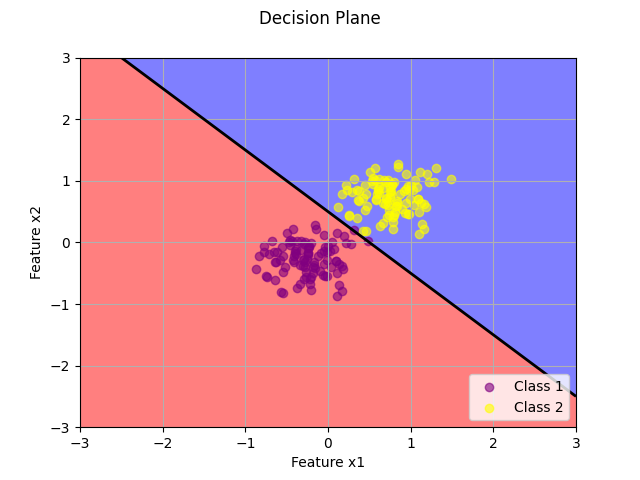
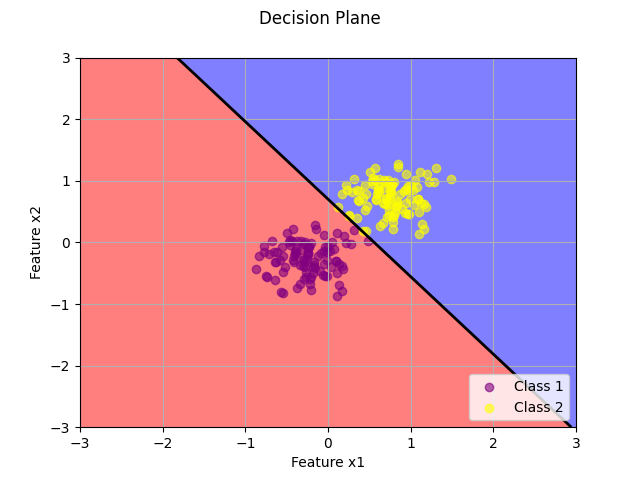
Update

Changed region(s): [[0.1875, 0.125, 0.625, 0.5625], [0.625, 0.5625, 0.9062, 0.9062]]

diff --git a/Classwork3/Assignment.py b/Classwork3/Assignment.py
@@ -1,0 +1,294 @@
+from sklearn.datasets import make_blobs
+import numpy as np
+import matplotlib.pyplot as plt
+from sklearn.metrics import confusion_matrix, roc_curve, auc
+from sklearn.model_selection import train_test_split
+from keras.api.models import Sequential
+from keras.api.layers import Dense
+from keras.api.optimizers import Adam
+import pandas as pd
+'''
+# Create dataset A (class 0) and B (class 1)
+X1, y1 = make_blobs(n_samples=100,
+                    n_features=2,
+                    centers=1,
+                    center_box=(2.0, 2.0),
+                    cluster_std=0.75,
+                    random_state=69)
+X2, y2 = make_blobs(n_samples=100,
+                    n_features=2,
+                    centers=1,
+                    center_box=(3.0, 3.0),
+                    cluster_std=0.75,
+                    random_state=69)
+
+# Label class A as 0 and class B as 1
+y1[:] = 0
+y2[:] = 1
+
+# Combine datasets
+X = np.vstack((X1, X2))
+y = np.hstack((y1, y2))
+
+# Splitting the data into training and testing sets
+X_train, X_test, y_train, y_test = train_test_split(X, y, test_size=0.5, random_state=42)
+
+# Creating a neural network model
+model = Sequential()
+model.add(Dense(16, input_dim=2, activation='relu'))
+model.add(Dense(1, activation='sigmoid'))
+model.compile(loss='binary_crossentropy', optimizer=Adam(0.0001), metrics=['accuracy'])
+
+# Training the model
+model.fit(X_train, y_train, epochs=300, batch_size=10, verbose=0)
+
+# Making predictions
+y_pred_prob = model.predict(X_test)
+y_pred = np.round(y_pred_prob).astype(int).ravel()
+
+# Plotting the decision boundary
+x_min, x_max = X[:, 0].min() - 1, X[:, 0].max() + 1
+y_min, y_max = X[:, 1].min() - 1, X[:, 1].max() + 1
+xx, yy = np.meshgrid(np.arange(x_min, x_max, 0.1), np.arange(y_min, y_max, 0.1))
+Z = model.predict(np.c_[xx.ravel(), yy.ravel()])
+Z = np.round(Z).astype(int)
+Z = Z.reshape(xx.shape)
+
+plt.contourf(xx, yy, Z, alpha=0.4, cmap='coolwarm')
+plt.scatter(X[:, 0], X[:, 1], c=y, s=20, edgecolors='k', cmap='coolwarm')
+plt.xlabel('Feature 1')
+plt.ylabel('Feature 2')
+plt.title('Decision Boundary')
+plt.show()
+'''
+'''
+import numpy as np
+import matplotlib.pyplot as plt
+from sklearn.datasets import make_blobs
+from sklearn.model_selection import train_test_split
+import random
+
+# Generate dataset A (Class 0) and B (Class 1)
+X1, y1 = make_blobs(n_samples=100, n_features=2, centers=1,
+                    center_box=(-2.0, -2.0), cluster_std=0.75, random_state=42)
+X2, y2 = make_blobs(n_samples=100, n_features=2, centers=1,
+                    center_box=(2.0, 2.0), cluster_std=0.75, random_state=42)
+
+# Label class A as 0 and class B as 1
+y1[:] = 0
+y2[:] = 1
+
+# Combine datasets
+X = np.vstack((X1, X2))
+y = np.hstack((y1, y2))
+
+# --- Perceptron Section ---
+# Define the sigmoid function
+def sigmoid(x):
+    return 1 / (1 + np.exp(-x))
+
+# Perceptron class
+class Perceptron:
+    def __init__(self, input_size=2, lr=0.01, epochs=20):
+        self.lr = lr
+        self.epochs = epochs
+        self.w = np.random.uniform(-1, 1, size=(input_size))  # Random weights
+        self.bias = random.uniform(-1, 1)  # Random bias
+
+    def predict(self, X):
+        z = np.dot(X, self.w) + self.bias
+        return 1 if z > 0 else 0  # Step function
+
+    def fit(self, X, y):
+        for _ in range(self.epochs):
+            for xi, yi in zip(X, y):
+                y_pred = self.predict(xi)
+                error = yi - y_pred
+                self.w += self.lr * error * xi
+                self.bias += self.lr * error
+
+# Train the perceptron
+perceptron = Perceptron(input_size=2, lr=0.01, epochs=50)
+perceptron.fit(X, y)
+
+# Decision boundary function
+def decision_function(x1):
+    return -(perceptron.w[0] * x1 + perceptron.bias) / perceptron.w[1]
+
+# Generate grid for plot
+x_min, x_max = X[:, 0].min() - 1, X[:, 0].max() + 1
+y_min, y_max = X[:, 1].min() - 1, X[:, 1].max() + 1
+xx = np.linspace(x_min, x_max, 100)
+yy = decision_function(xx)
+
+# --- Plot the Perceptron Decision Boundary ---
+plt.figure(figsize=(8, 6))
+
+# Plot dataset
+plt.scatter(X1[:, 0], X1[:, 1], color='red', label="Class 1", edgecolor='k')
+plt.scatter(X2[:, 0], X2[:, 1], color='blue', label="Class 2", edgecolor='k')
+
+# Plot decision boundary line
+plt.plot(xx, yy, 'k-', linewidth=2)
+
+# Fill regions
+plt.fill_between(xx, yy, y_min, color='lightcoral', alpha=0.3)
+plt.fill_between(xx, yy, y_max, color='lightblue', alpha=0.3)
+
+# Plot details
+plt.title("Decision Plane")
+plt.xlabel("Feature x1")
+plt.ylabel("Feature x2")
+plt.legend(loc='lower right')
+plt.xlim(x_min, x_max)
+plt.ylim(y_min, y_max)
+plt.grid(True)
+plt.show()
+
+'''
+
+# import numpy as np
+# import matplotlib.pyplot as plt
+# from sklearn.datasets import make_blobs
+# from sklearn.model_selection import train_test_split
+
+# # --- Data Generation ---
+# # Generate dataset A (Class 0) and B (Class 1)
+# X1, y1 = make_blobs(n_samples=100, n_features=2, centers=1,
+#                     center_box=(2.0, 2.0), cluster_std=0.75, random_state=42)
+# X2, y2 = make_blobs(n_samples=100, n_features=2, centers=1,
+#                     center_box=(3.0, 3.0), cluster_std=0.75, random_state=42)
+
+# # Label class A as 0 and class B as 1
+# y1[:] = 0
+# y2[:] = 1
+
+# # Combine datasets
+# X = np.vstack((X1, X2))
+# y = np.hstack((y1, y2))
+
+# # Split the data into training and testing sets
+# X_train, X_test, y_train, y_test = train_test_split(X, y, test_size=0.5, random_state=42)
+
+# # --- Neural Network Model ---
+# # Define a simple feedforward neural network
+# model = Sequential()
+# model.add(Dense(16, input_dim=2, activation='relu'))  # Hidden layer with ReLU activation
+# model.add(Dense(1, activation='sigmoid'))  # Output layer with sigmoid activation
+
+# # Compile the model
+# model.compile(loss='binary_crossentropy', optimizer=Adam(learning_rate=0.01), metrics=['accuracy'])
+
+# # Train the model
+# model.fit(X_train, y_train, epochs=300, batch_size=10, verbose=0)
+
+# # Evaluate the model on test data
+# loss, accuracy = model.evaluate(X_test, y_test, verbose=0)
+# print(f"Test Accuracy: {accuracy * 100:.2f}%")
+
+# # --- Decision Boundary ---
+# # Generate grid points for decision boundary
+# x_min, x_max = X[:, 0].min() - 1, X[:, 0].max() + 1
+# y_min, y_max = X[:, 1].min() - 1, X[:, 1].max() + 1
+# xx, yy = np.meshgrid(np.arange(x_min, x_max, 0.1),
+#                      np.arange(y_min, y_max, 0.1))
+
+# # Predict on grid points
+# Z = model.predict(np.c_[xx.ravel(), yy.ravel()])
+# Z = Z.reshape(xx.shape)
+
+# # --- Plot the Decision Boundary ---
+# plt.figure(figsize=(8, 6))
+
+# # Plot the filled decision regions
+# plt.contourf(xx, yy, Z, levels=[0, 0.5, 1], colors=['lightcoral', 'lightblue'], alpha=0.5)
+
+# # Plot the dataset points
+# plt.scatter(X1[:, 0], X1[:, 1], color='red', label="Class 0", edgecolor='k')
+# plt.scatter(X2[:, 0], X2[:, 1], color='blue', label="Class 1", edgecolor='k')
+
+# # Plot the decision boundary contour
+# plt.contour(xx, yy, Z, levels=[0.5], colors='black', linewidths=2)
+
+# # Plot details
+# plt.title("Neural Network Decision Boundary")
+# plt.xlabel("Feature x1")
+# plt.ylabel("Feature x2")
+# plt.legend(loc='lower right')
+# plt.xlim(x_min, x_max)
+# plt.ylim(y_min, y_max)
+# plt.grid(True)
+# plt.show()
+
+import numpy as np
+import matplotlib.pyplot as plt
+from sklearn.datasets import make_blobs
+from sklearn.model_selection import train_test_split
+
+# --- Data Generation ---
+# Generate dataset A (Class 0) and B (Class 1)
+X1, y1 = make_blobs(n_samples=100, n_features=2, centers=1,
+                    center_box=(2.0, 2.0), cluster_std=0.75, random_state=42)
+X2, y2 = make_blobs(n_samples=100, n_features=2, centers=1,
+                    center_box=(3.0, 3.0), cluster_std=0.75, random_state=42)
+
+# Label class A as 0 and class B as 1
+y1[:] = 0
+y2[:] = 1
+
+# Combine datasets
+X = np.vstack((X1, X2))
+y = np.hstack((y1, y2))
+
+# Split the data into training and testing sets
+X_train, X_test, y_train, y_test = train_test_split(X, y, test_size=0.5, random_state=42)
+
+# --- Neural Network Model ---
+# Define a simple feedforward neural network
+model = Sequential()
+model.add(Dense(16, input_dim=2, activation='relu'))  # Hidden layer with ReLU activation
+model.add(Dense(1, activation='sigmoid'))  # Output layer with sigmoid activation
+
+# Compile the model
+model.compile(loss='binary_crossentropy', optimizer=Adam(learning_rate=0.01), metrics=['accuracy'])
+
+# Train the model
+model.fit(X_train, y_train, epochs=300, batch_size=10, verbose=0)
+
+# Evaluate the model on test data
+loss, accuracy = model.evaluate(X_test, y_test, verbose=0)
+print(f"Test Accuracy: {accuracy * 100:.2f}%")
+
+# --- Decision Boundary ---
+# Generate grid points for decision boundary
+x_min, x_max = X[:, 0].min() - 1, X[:, 0].max() + 1
+y_min, y_max = X[:, 1].min() - 1, X[:, 1].max() + 1
+xx, yy = np.meshgrid(np.arange(x_min, x_max, 0.1),
+                     np.arange(y_min, y_max, 0.1))
+
+# Predict on grid points
+Z = model.predict(np.c_[xx.ravel(), yy.ravel()])
+Z = Z.reshape(xx.shape)
+
+# --- Plot the Decision Boundary ---
+plt.figure(figsize=(8, 6))
+
+# Plot the filled decision regions
+plt.contourf(xx, yy, Z, levels=[0, 0.5, 1], colors=['lightcoral', 'lightblue'], alpha=0.5)
+
+# Plot the dataset points
+plt.scatter(X1[:, 0], X1[:, 1], color='red', label="Class 0", edgecolor='k', s=50)
+plt.scatter(X2[:, 0], X2[:, 1], color='blue', label="Class 1", edgecolor='k', s=50)
+
+# Plot the decision boundary contour
+plt.contour(xx, yy, Z, levels=[0.5], colors='black', linewidths=2)
+
+# Plot details
+plt.title("Neural Network Decision Boundary")
+plt.xlabel("Feature x1")
+plt.ylabel("Feature x2")
+plt.legend(loc='lower right')
+plt.xlim(x_min, x_max)
+plt.ylim(y_min, y_max)
+plt.grid(True)
+plt.show()

diff --git a/Classwork3/Titanic.py b/Classwork3/Titanic.py
@@ -1,0 +1,53 @@
+import numpy as np
+import matplotlib.pyplot as plt
+from sklearn.metrics import confusion_matrix, roc_curve, auc
+from sklearn.model_selection import train_test_split
+from keras.api.models import Sequential
+from keras.api.layers import Dense
+from keras.api.optimizers import Adam
+import pandas as pd
+
+# Load the Titanic dataset
+url = "Classwork3/titanic.csv"
+data = pd.read_csv(url)
+
+# Selecting features and target variable
+X = data[['Age', 'Fare']].values
+y = data['Survived'].values
+
+# Handling missing values by replacing them with the min value
+X[np.isnan(X)] = np.nanmin(X)
+
+# Splitting the data into training and testing sets
+X_train, X_test, y_train, y_test = train_test_split(X, y, test_size=0.5, random_state=42)
+
+
+# Creating a neural network model
+model = Sequential()
+model.add(Dense(16, input_dim=2, activation='relu'))
+model.add(Dense(1, activation='sigmoid'))
+optimizer = Adam(0.0001)
+model.compile(loss='binary_crossentropy', optimizer='adam', metrics=['accuracy'])
+
+# Training the model
+model.fit(X_train, y_train, epochs=300, batch_size=200, verbose=0)
+
+# Making predictions
+y_pred_prob = model.predict(X_test)
+y_pred = np.round(y_pred_prob).astype(int).ravel()
+
+
+# Plotting the decision boundary
+x_min, x_max = X[:, 0].min() - 1, X[:, 0].max() + 1
+y_min, y_max = X[:, 0].min() - 1, X[:, 0].max() + 1
+xx, yy = np.meshgrid(np.arange(x_min, x_max, 0.1), np.arange(y_min, y_max, 0.1))
+Z = model.predict(np.c_[xx.ravel(), yy.ravel()])
+Z = np.round(Z).astype(int)
+Z = Z.reshape(xx.shape)
+
+plt.contourf(xx, yy, Z, alpha=0.4)
+plt.scatter(X[:, 0], X[:, 1], c=y, s=20, edgecolors='k')
+plt.xlabel('Age')
+plt.ylabel('Fare')
+plt.title('Decision Boundary')
+plt.show()
